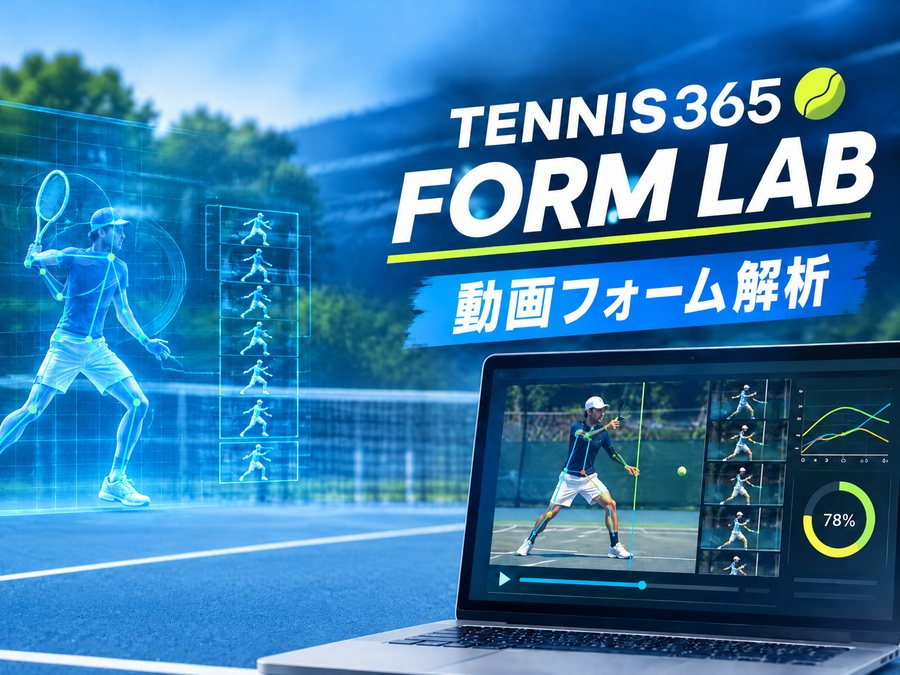
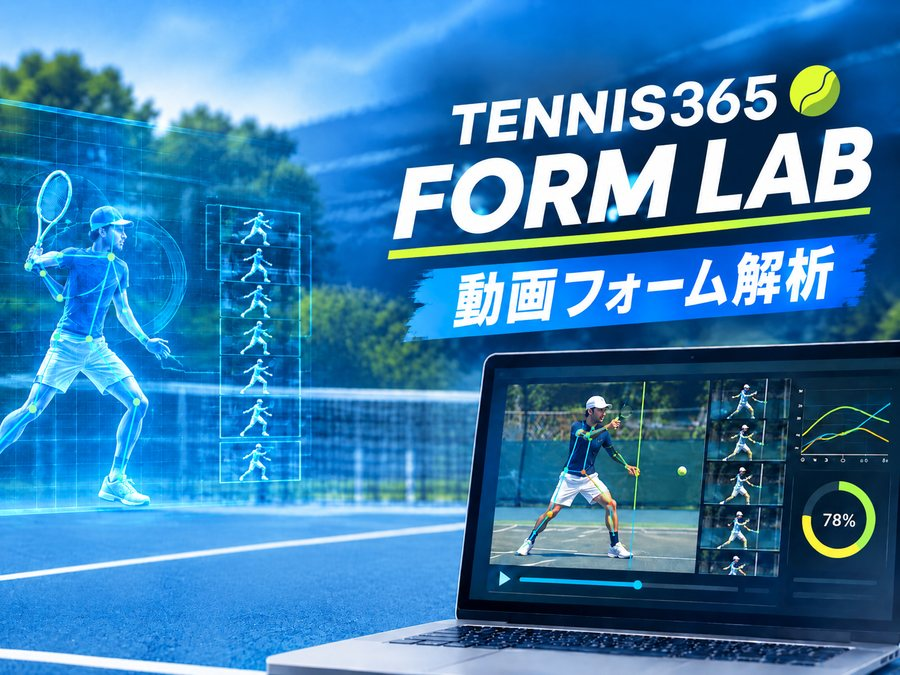
FORM LAB: side-by-side hero (copy left, key visual right)
Claude-Session: https://claude.ai/code/session_01ER5udtSgpxPna1uVG86ufk

diff --git a/online-lesson/index.html b/online-lesson/index.html
@@ -55,11 +55,13 @@
 
   /* hero */
   .vh{position:absolute;width:1px;height:1px;overflow:hidden;clip:rect(0 0 0 0);white-space:nowrap}
-  .hero{background:radial-gradient(1200px 600px at 70% 0%,#1E5FD0 0%,#0A2350 55%,#071733 100%);color:#EEF4FF;padding:28px 0 64px;position:relative;overflow:hidden}
+  .hero{background:radial-gradient(1200px 600px at 75% 10%,#1E5FD0 0%,#0A2350 55%,#071733 100%);color:#EEF4FF;padding:48px 0 56px;position:relative;overflow:hidden}
   .hero::after{content:"";position:absolute;left:0;right:0;bottom:0;height:6px;background:linear-gradient(90deg,#D4F03A,#3FA9FF)}
-  .hero-img{display:block;width:100%;height:auto;border-radius:24px;box-shadow:0 30px 70px rgba(0,10,40,.55),0 0 0 1px rgba(120,180,255,.25)}
-  .hero-copy{display:grid;grid-template-columns:1.1fr .9fr;gap:40px;align-items:center;margin-top:36px}
-  .hero-catch{font-size:clamp(26px,3.4vw,40px);font-weight:900;line-height:1.4;margin:0 0 12px;color:#fff}
+  .hero-pic{min-width:0}
+  .hero-img{display:block;width:100%;max-width:640px;height:auto;margin-left:auto;border-radius:20px;box-shadow:0 30px 70px rgba(0,10,40,.55),0 0 0 1px rgba(120,180,255,.25)}
+  .hero-copy{display:grid;grid-template-columns:45fr 55fr;gap:48px;align-items:center}
+  .hero-act{margin-top:28px}
+  .hero-catch{font-size:clamp(28px,3.6vw,46px);font-weight:900;line-height:1.4;margin:0 0 12px;color:#fff}
   .hero-catch em{font-style:normal;color:#D4F03A}
   .hero p.sub{font-size:clamp(14px,1.4vw,16px);color:#B9CCEA;margin:0}
   .hero .ctas{display:flex;gap:14px;flex-wrap:wrap;align-items:center}
@@ -174,9 +176,10 @@
     section{padding:72px 0}
     .nav{display:none}
     .hero-copy,.ai,.price-grid,.coach{grid-template-columns:1fr}
-    .hero{padding:14px 0 48px}
-    .hero-img{border-radius:16px}
-    .hero-copy{margin-top:24px;gap:24px}
+    .hero{padding:16px 0 44px}
+    .hero-img{border-radius:16px;max-width:none}
+    .hero-copy{gap:24px}
+    .hero-pic{order:-1}
     .worries{grid-template-columns:1fr 1fr}
     .steps,.deliver{grid-template-columns:1fr}
     .shoot{grid-template-columns:1fr 1fr}
@@ -218,15 +221,10 @@
   <div class="hero">
     <div class="wrap">
       <h1 class="vh">TENNIS365 FORM LAB 動画フォーム解析</h1>
-      <picture>
-        <source media="(max-width:700px)" srcset="images/hero-sp.jpg">
-        <img class="hero-img" src="images/hero.jpg" width="1448" height="1086" alt="TENNIS365 FORM LAB 動画フォーム解析：スイングの骨格をAIで解析する画面のイメージ" fetchpriority="high">
-      </picture>
       <div class="hero-copy">
         <div>
-          <p class="hero-catch">スマホで撮って、送るだけ。<br><em>上達が、見える。</em></p>
+          <p class="hero-catch">スマホで撮って、<br>送るだけ。<br><em>上達が、見える。</em></p>
           <p class="sub">あなたのスイング動画を、テニス365のコーチが添削。AIがフォームを数値で分析し、添削動画とシートでお届けします。</p>
-        </div>
         <div class="hero-act">
           <div class="ctas">
             <a class="btn btn-main js-pay" href="#price">申し込む <svg viewBox="0 0 24 24" fill="none" stroke="currentColor" stroke-width="2.5" stroke-linecap="round" stroke-linejoin="round"><path d="M5 12h14M13 6l6 6-6 6"/></svg></a>
@@ -237,6 +235,13 @@
             <span><svg viewBox="0 0 24 24" fill="none" stroke="currentColor" stroke-width="2.5" stroke-linecap="round" stroke-linejoin="round"><path d="M20 6L9 17l-5-5"/></svg><span class="js-days">7</span>日以内にお届け</span>
             <span><svg viewBox="0 0 24 24" fill="none" stroke="currentColor" stroke-width="2.5" stroke-linecap="round" stroke-linejoin="round"><path d="M20 6L9 17l-5-5"/></svg>初心者から上級者まで</span>
           </div>
+        </div>
+        </div>
+        <div class="hero-pic">
+          <picture>
+        <source media="(max-width:700px)" srcset="images/hero-sp.jpg">
+        <img class="hero-img" src="images/hero.jpg" width="1448" height="1086" alt="TENNIS365 FORM LAB 動画フォーム解析：スイングの骨格をAIで解析する画面のイメージ" fetchpriority="high">
+      </picture>
         </div>
       </div>
     </div>
